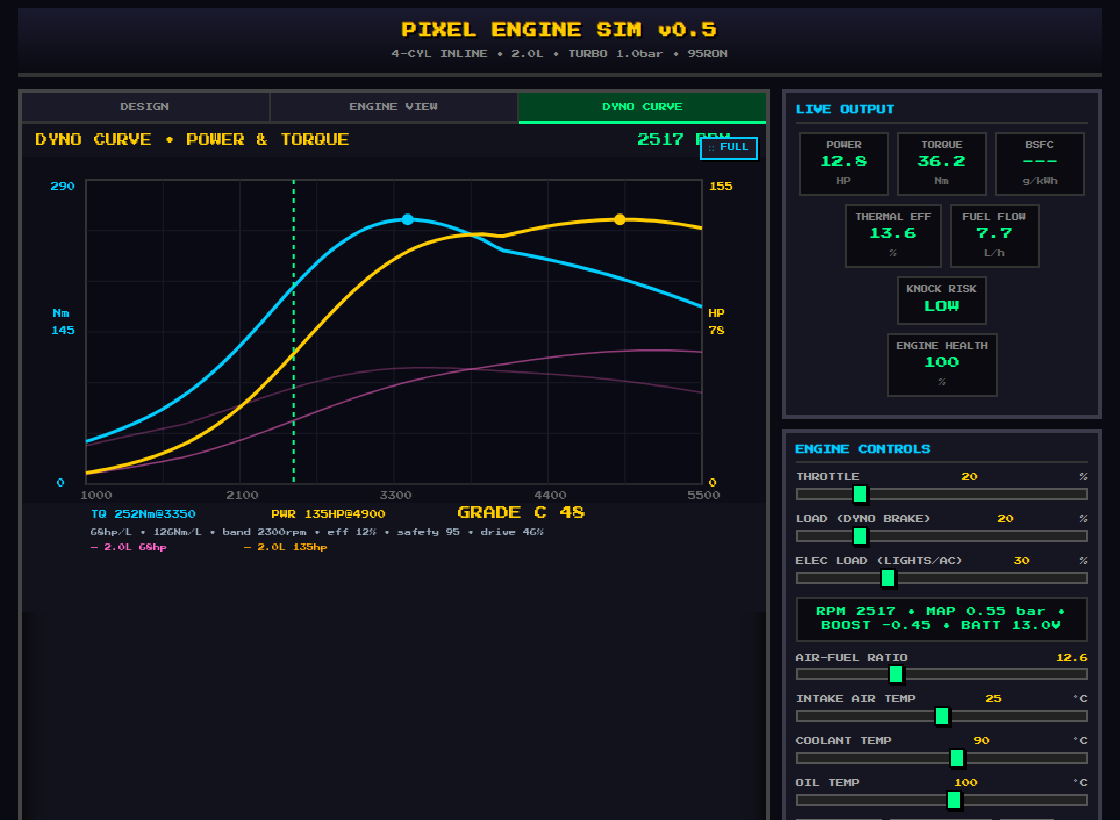
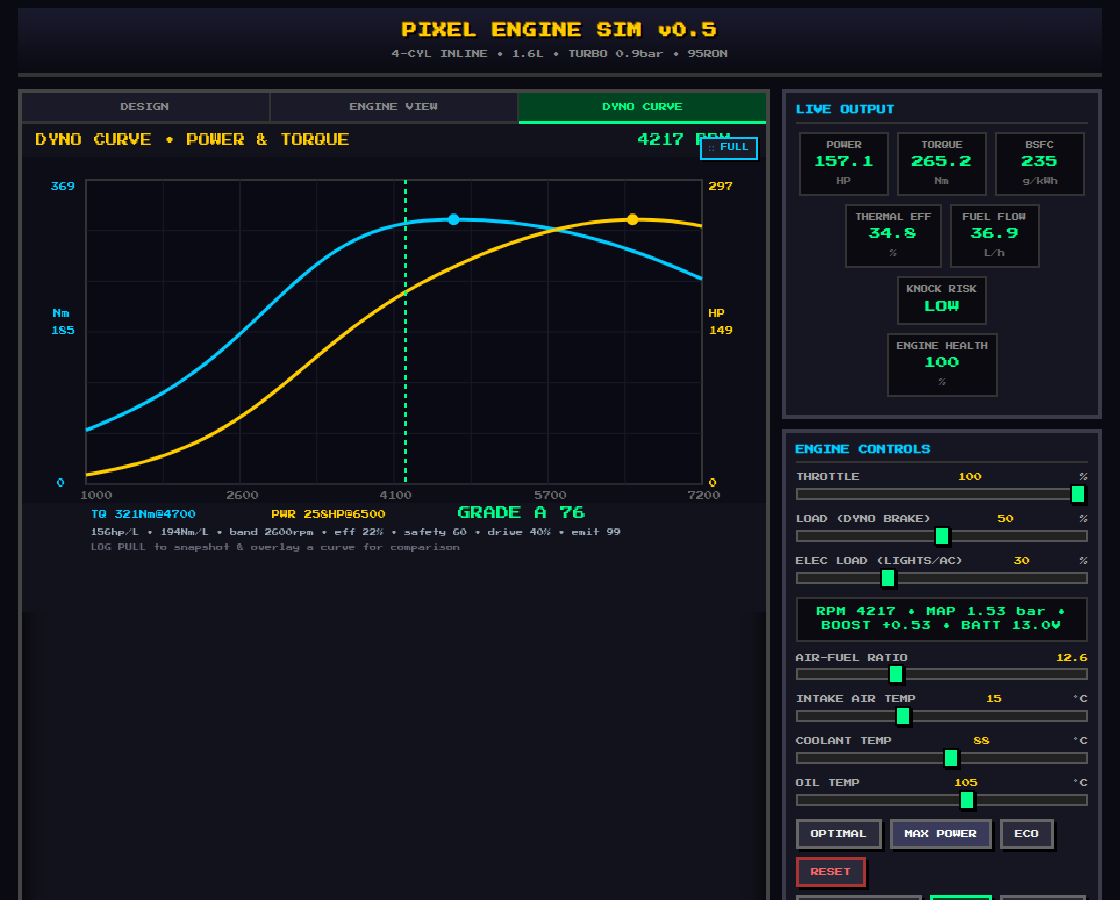
Add emissions & sound (E): CO/HC/NOx, catalytic converter, engine note character (#17)
Emissions subsystem:
- Engine-out CO / HC / NOx modelled vs mixture (lambda) and combustion
  temperature: CO spikes rich, HC is U-shaped (rich + lean misfire + cam
  overlap + imprecise metering + cold), NOx is thermal and peaks slightly
  lean (~lambda 1.08) scaling with load/compression/advance/charge temp.
- New CATALYTIC CONVERTER design field (none-decat / sport / stock). A
  three-way cat only cleans in a narrow stoich window: it needs excess O2
  to oxidise CO/HC (works stoich->lean) but an O2-free exhaust to reduce
  NOx (works stoich->rich), so only stoich cleans all three. Cat adds a
  small exhaust back-pressure (top-end VE loss); deleting it frees a few hp.
- Live analyser readout in the EXHAUST/ANALYSER schematic box: a
  CLEAN/OK/DIRTY rating plus CO/HC/NOx in the detailed full-screen view.
- Emissions folded into the scorecard (design potential at stoich cruise)
  and shown on the design summary and dyno; overall score reweighted.

Sound:
- Firing-order/character-driven lope: an amplitude LFO whose depth tracks
  engine.lumpiness (cam overlap, cross-plane V8, few cylinders, anti-lag;
  smoothed by VVT), deepest at idle and fading with rpm. Note also opens up
  brighter with cylinder count.

Presets tagged with realistic cat choices (decat screamer, sport-cat V12).
README, roadmap and screenshots updated.

Claude-Session: https://claude.ai/code/session_01AEJgmuJne9ALT6jCcxozCn

diff --git a/index.html b/index.html
@@ -122,6 +122,7 @@ footer{text-align:center;margin-top:16px;padding:8px;font-size:7px;color:#555;bo
 <div class="field"><label for="edAntilag">ANTI-LAG (ALS)</label><select id="edAntilag"><option value="no">NO</option><option value="yes">YES</option></select></div>
 <div class="field"><label for="edScType">SUPERCHARGER</label><select id="edScType"><option value="roots">ROOTS</option><option value="screw">TWIN-SCREW</option><option value="centrifugal">CENTRIFUGAL</option></select></div>
 <div class="field"><label for="edExhaust">EXHAUST</label><select id="edExhaust"><option value="stock">STOCK</option><option value="sport">SPORT</option><option value="race">RACE</option></select></div>
+<div class="field"><label for="edCat">CATALYTIC CONV.</label><select id="edCat"><option value="none">NONE (DECAT)</option><option value="sport">SPORT CAT</option><option value="stock">STOCK CAT</option></select></div>
 <div class="field"><label for="edNitrous">NITROUS (N2O)</label><select id="edNitrous"><option value="none">NONE</option><option value="small">SMALL SHOT</option><option value="large">BIG SHOT</option></select></div>
 </div>
 
@@ -284,7 +285,7 @@ const AIR_FILTER={
 // coil-on-plug with ECU knock-limited timing).
 const DEFAULT_ENGINE={
   cylinders:4,bore_mm:81,stroke_mm:78,compression:12.5,layout:'inline',redline:7200,
-  intake:'na',boost_bar:0,intercooler:true,turboSize:'medium',turboConfig:'single',scType:'roots',antilag:false,nitrous:'none',exhaust:'sport',
+  intake:'na',boost_bar:0,intercooler:true,turboSize:'medium',turboConfig:'single',scType:'roots',antilag:false,nitrous:'none',exhaust:'sport',cat:'stock',
   intakeSys:'efi',airFilter:'perf',
   cam:'stock',vvt:true,
   fuel:'gasoline',octane:95,injector:'direct',ignitionAdv:22,ignitionType:'coil',timingMode:'auto',
@@ -297,12 +298,12 @@ const PRESETS=[
   {name:'1.0 Kei Turbo I3',       engine:{cylinders:3,bore_mm:73,stroke_mm:79.6,compression:9.5,redline:7000,intake:'turbo',boost_bar:0.7,turboSize:'small',injector:'port'}},
   {name:'1.5 Turbo Eco I4',       engine:{cylinders:4,bore_mm:73,stroke_mm:89.5,compression:10.5,redline:6500,intake:'turbo',boost_bar:0.8,turboSize:'small',airFilter:'stock',exhaust:'stock'}},
   {name:'2.0 Turbo Hot-Hatch I4', engine:{cylinders:4,bore_mm:86,stroke_mm:86,compression:9.8,redline:7000,intake:'turbo',boost_bar:1.0,turboSize:'medium',octane:98,cam:'sport',exhaust:'sport',radiator:'large',oilCooler:true}},
-  {name:'2.0 ITB NA Screamer I4', engine:{cylinders:4,bore_mm:87,stroke_mm:84,compression:11.7,redline:8800,intakeSys:'itb',airFilter:'none',cam:'race',exhaust:'race',octane:98,injector:'port',radiator:'large',oilCooler:true}},
+  {name:'2.0 ITB NA Screamer I4', engine:{cylinders:4,bore_mm:87,stroke_mm:84,compression:11.7,redline:8800,intakeSys:'itb',airFilter:'none',cam:'race',exhaust:'race',cat:'none',octane:98,injector:'port',radiator:'large',oilCooler:true}},
   {name:'2.5 Turbo I5 (RS)',      engine:{cylinders:5,bore_mm:82.5,stroke_mm:92.8,compression:10,redline:7000,intake:'turbo',boost_bar:1.1,turboSize:'medium',octane:98,cam:'sport',exhaust:'sport',radiator:'large',oilCooler:true}},
   {name:'3.0 Turbo I6 (2JZ)',     engine:{cylinders:6,bore_mm:84,stroke_mm:90,compression:10.2,redline:7000,intake:'turbo',boost_bar:0.9,turboSize:'medium',octane:98,cam:'sport',exhaust:'sport',radiator:'large',oilCooler:true}},
   {name:'5.0 V8 NA Muscle',       engine:{cylinders:8,bore_mm:93,stroke_mm:92.7,compression:12,layout:'v',redline:7500,cam:'sport',exhaust:'sport',radiator:'large',oilCooler:true}},
   {name:'6.2 Supercharged V8',    engine:{cylinders:8,bore_mm:103.9,stroke_mm:90.9,compression:9.5,layout:'v',redline:6400,intake:'supercharger',boost_bar:0.65,octane:98,injector:'port',vvt:false,cam:'sport',exhaust:'sport',radiator:'large',oilCooler:true}},
-  {name:'6.5 V12 NA Supercar',    engine:{cylinders:12,bore_mm:95,stroke_mm:76.4,compression:11.8,layout:'v',redline:8500,intakeSys:'itb',cam:'race',exhaust:'race',octane:98,injector:'port',radiator:'large',oilCooler:true}}
+  {name:'6.5 V12 NA Supercar',    engine:{cylinders:12,bore_mm:95,stroke_mm:76.4,compression:11.8,layout:'v',redline:8500,intakeSys:'itb',cam:'race',exhaust:'race',cat:'sport',octane:98,injector:'port',radiator:'large',oilCooler:true}}
 ];
 const STD_TUNE={throttle:0.85,load:0.40,elecLoad:0.30,afr:13.2,iat:25,coolant:90,oil:100,autoThermal:false};
 
@@ -346,11 +347,20 @@ const SC_TYPE={
   centrifugal:{label:'CENTRIFUGAL',lo:0.04,hi:1.00,exp:2,drag:0.80}
 };
 const NITROUS_BAR={none:0,small:2.2,large:4.2};   // extra IMEP (bar) from a nitrous shot
+// Catalytic converter: a three-way cat only cleans efficiently in a narrow window around
+// stoich. conv = peak conversion efficiency; restrict = exhaust back-pressure (a small
+// top-end VE loss, like an extra air filter). A modern engine uses a stock (high-flow-
+// enough, high-conversion) cat; race builds delete it for flow at the cost of emissions.
+const CAT={
+  none: {label:'NONE (DECAT)',conv:0.00,restrict:0.00},
+  sport:{label:'SPORT CAT',   conv:0.85,restrict:0.02},
+  stock:{label:'STOCK CAT',   conv:0.97,restrict:0.05}
+};
 let engine=Object.assign({},DEFAULT_ENGINE);
 let buildRev=0;   // bumped each build so the dyno cache invalidates
 
 // throttle & load are the driver inputs; rpm & map are now integrated by the sim.
-let state={throttle:0.20,load:0.20,elecLoad:0.30,rpm:1000,map:0.45,afr:14.7,iat:25,coolant:90,oil:100,torque:0,powerHP:0,powerKW:0,bsfc:0,thermalEff:0,fuelFlowLph:0,knockRisk:0,ve:0.85,bmep:0,boostActual:0,batterySOC:1.0,systemVoltage:14.0,engineHealth:1.0,blown:false,wearCause:'',fuelCut:false,nitrousActive:false,nitrousCharge:1.0};
+let state={throttle:0.20,load:0.20,elecLoad:0.30,rpm:1000,map:0.45,afr:14.7,iat:25,coolant:90,oil:100,torque:0,powerHP:0,powerKW:0,bsfc:0,thermalEff:0,fuelFlowLph:0,knockRisk:0,ve:0.85,bmep:0,boostActual:0,batterySOC:1.0,systemVoltage:14.0,engineHealth:1.0,blown:false,wearCause:'',fuelCut:false,nitrousActive:false,nitrousCharge:1.0,emCO:0,emHC:0,emNOx:0,emRating:100};
 let crankAngle=0,lastTime=performance.now();
 let vizMode='engine';
 let autoThermal=false;
@@ -388,6 +398,7 @@ function readEngineFromForm(){
     scType:g('edScType').value,
     nitrous:g('edNitrous').value,
     exhaust:g('edExhaust').value,
+    cat:g('edCat').value,
     intakeSys:g('edIntakeSys').value,
     airFilter:g('edAirFilter').value,
     cam:g('edCam').value,
@@ -416,7 +427,7 @@ function applyEngineToForm(e){
   g('edIntakeSys').value=e.intakeSys||'efi';g('edAirFilter').value=e.airFilter||'stock';
   g('edCam').value=e.cam||'stock';g('edVVT').value=e.vvt?'yes':'no';
   g('edFuel').value=e.fuel||'gasoline';
-  g('edExhaust').value=e.exhaust;g('edOctane').value=e.octane;g('edInjector').value=e.injector;
+  g('edExhaust').value=e.exhaust;g('edCat').value=e.cat||'stock';g('edOctane').value=e.octane;g('edInjector').value=e.injector;
   g('edIgnAdv').value=e.ignitionAdv;g('edIgnType').value=e.ignitionType;g('edTiming').value=e.timingMode||'fixed';
   g('edRadiator').value=e.radiator||'stock';g('edFan').value=e.fan||'electric';
   g('edOilCooler').value=e.oilCooler?'yes':'no';g('edThermostat').value=e.thermostat||88;
@@ -477,7 +488,11 @@ function buildEngine(){
   // manifold response, idle quality. Direct injection is only possible on EFI systems.
   const sys=INTAKE_SYS[engine.intakeSys]||INTAKE_SYS.efi,filt=AIR_FILTER[engine.airFilter]||AIR_FILTER.stock;
   if(!sys.di)engine.injector='port';          // carbs / mechanical injection: no DI
-  engine.inductionFlowTop=sys.flowTop+filt.flowTop;
+  // Catalytic converter: conversion efficiency + a small exhaust back-pressure that costs
+  // top-end breathing (folded into the top-end flow term, like an extra restrictive filter).
+  const catp=CAT[engine.cat]||CAT.stock;
+  engine.catConv=catp.conv;engine.catRestrict=catp.restrict;
+  engine.inductionFlowTop=sys.flowTop+filt.flowTop-catp.restrict;
   engine.inductionFlowLow=sys.flowLow;
   engine.meteringEff=sys.metering;            // AFR precision → thermal efficiency
   engine.intakeRespK=sys.resp;                // manifold fill speed (dynamic model)
@@ -513,6 +528,12 @@ function buildEngine(){
   const alt=ALT[engine.alternator]||ALT['120'];
   engine.altMaxA=alt.maxA;engine.altDragMEP=alt.drag;
   engine.dwellLimit=DWELL_RPM[engine.ignitionType]||6800;
+  // Engine "note" character: how lumpy/lopey the idle & low end sound. Big cams (overlap),
+  // few cylinders, cross-plane V8s and anti-lag all add burble; VVT smooths it back out.
+  engine.lumpiness=clamp((CAM[engine.cam]||CAM.stock).scav*4.5
+    +(engine.layout==='v'&&engine.cylinders===8?0.25:0)
+    +(engine.cylinders<=4?0.15:0)
+    +(engine.antilag?0.20:0),0,1)*(engine.vvt?0.7:1);
 
   // Keep the live operating point valid for the new engine.
   state.rpm=clamp(state.rpm,engine.idleRpmEff,engine.redline);
@@ -555,7 +576,7 @@ function updateDesignSummary(){
     '<br>Compression <b>'+engine.compression.toFixed(1)+':1</b> • Redline <b>'+engine.redline+'</b> rpm'+
     '<br>Induction <b>'+induction+'</b>'+
     '<br>Intake <b>'+INTAKE_SYS[engine.intakeSys].label+'</b> • Filter <b>'+AIR_FILTER[engine.airFilter].label+'</b>'+
-    '<br>Exhaust <b>'+engine.exhaust.toUpperCase()+'</b> • Cam <b>'+engine.cam.toUpperCase()+(engine.vvt?' + VVT':'')+'</b>'+
+    '<br>Exhaust <b>'+engine.exhaust.toUpperCase()+'</b> • Cat <b>'+CAT[engine.cat].label.split(' ')[0]+'</b> • Cam <b>'+engine.cam.toUpperCase()+(engine.vvt?' + VVT':'')+'</b>'+
     '<br>Fuel <b>'+FUELS[engine.fuel].label+'</b> ('+engine.effOctane+' oct, '+engine.stoichAFR.toFixed(1)+':1 stoich'+(engine.chargeCool?', −'+engine.chargeCool+'°C charge':'')+')'+
     '<br>'+(engine.injector==='direct'?'<b>Direct inj</b> • ':'')+'Ignition <b>'+(engine.timingMode==='auto'?'AUTO (ECU)':engine.ignitionAdv+'° fixed')+' '+engine.ignitionType.toUpperCase()+'</b>'+
     '<br>Cooling <b>'+engine.radiator.toUpperCase()+' RAD</b> • <b>'+engine.fan.toUpperCase()+' FAN</b>'+(engine.oilCooler?' • <b>OIL COOLER</b>':'')+' • Thermostat <b>'+engine.thermostat+'°C</b>'+
@@ -566,7 +587,7 @@ function scoreLine(s){
   if(!s)return'';
   const gc=s.overall>=76?'#00ff88':s.overall>=46?'#ffcc00':'#ff6666';
   return '<br><span style="color:'+gc+'">SCORE <b>'+s.grade+' ('+s.overall+')</b></span> • '+s.peakHP+'hp @'+s.peakHPrpm+' • '+s.peakTQ+'Nm @'+s.peakTQrpm+
-    '<br><span style="color:#889">'+s.hpPerL+'hp/L • band '+s.band+'rpm • eff '+s.thEff+'% • safety '+s.safety+' • drive '+s.drive+'%</span>';
+    '<br><span style="color:#889">'+s.hpPerL+'hp/L • band '+s.band+'rpm • eff '+s.thEff+'% • safety '+s.safety+' • drive '+s.drive+'% • emit '+s.emissions+'</span>';
 }
 
 // ---- Turbo spool: how much of the target boost is available at a given RPM ----
@@ -828,8 +849,45 @@ function stepWear(dt){
   state.wearCause=worst>0.001?cause:'';
   if(state.engineHealth<=0){state.blown=true;state.engineHealth=0;state.wearCause=cause||'FAILURE';}
 }
+// ---- Emissions: engine-out CO / HC / NOx vs mixture & combustion temperature, then a
+// three-way catalytic converter that only cleans efficiently in a narrow window around
+// stoich. Stored on state for the analyser display; also fed a 0-100 cleanliness rating.
+//   CO  — incomplete combustion: high when RICH (no O2), near-zero at/above stoich.
+//   HC  — unburned fuel: U-shaped — high rich (excess fuel) AND very lean (misfire), plus
+//         cam-overlap scavenging, imprecise metering (carbs) and a cold engine.
+//   NOx — thermal: peaks slightly LEAN (~λ1.08, hot + excess O2), scaling with combustion
+//         temperature (load, compression, spark advance, hot charge/chamber).
+// The cat needs excess O2 to oxidise CO/HC (works stoich→lean) but a reducing, O2-free
+// exhaust to reduce NOx (works stoich→rich) — so only stoich cleans all three at once.
+function computeEmissions(){
+  const map=liveMap(),lam=state.afr/engine.stoichAFR;
+  const load=clamp((state.rpm-800)/(engine.redline-800),0,1)*0.5+clamp((map-0.3)/(engine.mapMax-0.3),0,1)*0.5;
+  const adv=activeAdvance(state.rpm,map),mbt=mbtAdvance(state.rpm,map);
+  const tempF=clamp(0.4+load*0.9+Math.max(0,engine.compression-9)*0.05
+    +Math.max(0,effIAT(map)-30)*0.006+Math.max(0,adv-mbt+8)*0.010
+    +Math.max(0,state.coolant-90)*0.004,0.2,2.4);
+  const cold=state.coolant<60?(60-state.coolant)/60:0;
+  const meterSlop=1-engine.meteringEff;   // carbs/mech injection run imprecise & rich
+  let coEO =4+Math.max(0,1.0-lam)*300+meterSlop*140;
+  let hcEO =3+Math.max(0,1.0-lam)*95+Math.max(0,lam-1.06)*280+engine.camScav*130+meterSlop*70+cold*45;
+  let noxEO=2+100*Math.exp(-Math.pow((lam-1.08)/0.11,2))*tempF;
+  if(state.fuelCut){coEO=1;hcEO=2;noxEO=1;}   // no combustion on overrun/limiter cut
+  // Three-way conversion: window round stoich, plus O2 availability (lean) for oxidation
+  // and O2 absence (rich) for NOx reduction. A stone-cold cat hasn't lit off yet.
+  const w=Math.exp(-Math.pow((lam-1.0)/0.02,2));
+  const leanO2=clamp((lam-1.0)/0.05,0,1),richRed=clamp((1.0-lam)/0.05,0,1);
+  const litoff=state.coolant<50?0.25:1;
+  const oxEff =engine.catConv*litoff*Math.max(w,leanO2*0.85);
+  const redEff=engine.catConv*litoff*Math.max(w,richRed*0.85);
+  state.emCO=coEO*(1-oxEff);state.emHC=hcEO*(1-oxEff);state.emNOx=noxEO*(1-redEff);
+  // Cleanliness rating 0-100 (higher = cleaner): saturating penalties per pollutant.
+  const coBad=clamp(state.emCO/40,0,1),hcBad=clamp(state.emHC/25,0,1),noxBad=clamp(state.emNOx/70,0,1);
+  state.emRating=Math.round(clamp(100-(coBad*38+hcBad*30+noxBad*32),0,100));
+  return state.emRating;
+}
 function updatePhysics(){
   const map=liveMap();
+  computeEmissions();
   state.fuelCut=overrunFuelCut()||state.rpm>=engine.redline;
   const r=calcAtRpm(state.rpm,map);
   state.torque=r.torque;state.powerKW=r.powerKW;state.powerHP=r.powerHP;
@@ -885,7 +943,7 @@ function stepThermal(dt){
 }
 
 // ---- Engine sound (Web Audio, created lazily on first user gesture) ----
-const Sound={ctx:null,osc:null,sub:null,filter:null,gain:null,on:false};
+const Sound={ctx:null,osc:null,sub:null,filter:null,gain:null,lfo:null,lfoGain:null,on:false};
 function initSound(){
   if(Sound.ctx)return;
   const AC=window.AudioContext||window.webkitAudioContext;if(!AC)return;
@@ -896,7 +954,12 @@ function initSound(){
   Sound.sub=Sound.ctx.createOscillator();Sound.sub.type='square';
   Sound.osc.connect(Sound.filter);Sound.sub.connect(Sound.filter);
   Sound.filter.connect(Sound.gain);Sound.gain.connect(Sound.ctx.destination);
-  Sound.osc.start();Sound.sub.start();
+  // Lumpiness LFO: amplitude-modulates the note at the firing/rev rate so a wild cam or a
+  // cross-plane V8 idles with an audible lope/burble; VVT & many cylinders smooth it out.
+  Sound.lfo=Sound.ctx.createOscillator();Sound.lfo.type='sine';
+  Sound.lfoGain=Sound.ctx.createGain();Sound.lfoGain.gain.value=0;
+  Sound.lfo.connect(Sound.lfoGain);Sound.lfoGain.connect(Sound.gain.gain);
+  Sound.osc.start();Sound.sub.start();Sound.lfo.start();
 }
 function updateSound(){
   if(!Sound.on||!Sound.ctx)return;
@@ -905,8 +968,15 @@ function updateSound(){
   const t=Sound.ctx.currentTime;
   Sound.osc.frequency.setTargetAtTime(fire,t,0.05);
   Sound.sub.frequency.setTargetAtTime(fire/2,t,0.05);
-  Sound.filter.frequency.setTargetAtTime(500+state.rpm*0.14,t,0.05);
-  Sound.gain.gain.setTargetAtTime(0.05+clamp(state.powerHP/160,0,1)*0.12,t,0.08);
+  // More cylinders sit brighter/smoother; the note opens up with revs.
+  Sound.filter.frequency.setTargetAtTime(440+state.rpm*0.15+engine.cylinders*8,t,0.05);
+  const loud=state.blown?0:0.05+clamp(state.powerHP/160,0,1)*0.13;
+  Sound.gain.gain.setTargetAtTime(loud,t,0.08);
+  // Lope pulses at the crank-rev rate, deepest at idle and fading with rpm.
+  const lump=engine.lumpiness||0;
+  Sound.lfo.frequency.setTargetAtTime(Math.max(4,state.rpm/60),t,0.05);
+  const depth=lump*loud*clamp(1-(state.rpm-engine.idleRpmEff)/2600,0.12,1);
+  Sound.lfoGain.gain.setTargetAtTime(state.blown?0:depth,t,0.08);
 }
 function setSound(on){
   Sound.on=on;
@@ -1020,16 +1090,26 @@ function scoreEngine(){
       const fuelPower=((airMass/state.afr)/engine.meteringEff)*engine.fuelLHV*1e6/1000;
       if(fuelPower>0.1)thEff=Math.max(thEff,clamp((cr.powerKW/fuelPower)*100,0,45));
     }}
+  // emissions: cleanliness at a representative stoich cruise + part-load (where a modern
+  // engine spends its regulated life). Rewards a cat + precise metering; a decatted, carb'd
+  // or overlap-heavy build rates dirty even run at stoich.
+  state.afr=engine.stoichAFR;let emSum=0,emN=0;
+  for(const [rf,mm] of [[0.45,0.5],[0.7,0.7],[0.9,Math.min(0.95,engine.mapMax)]]){
+    state.rpm=Math.round(clamp(peakTQrpm*rf,1000,rMax));state.map=Math.min(mm,engine.mapMax);
+    emSum+=computeEmissions();emN++;
+  }
+  const emissions=Math.round(emSum/emN);
   Object.assign(state,{afr:sv.afr,iat:sv.iat,coolant:sv.coolant,oil:sv.oil,engineHealth:sv.eh,blown:sv.bl,elecLoad:sv.el,map:sv.map,rpm:sv.rpm});
+  computeEmissions();   // restore live emissions readout at the real operating point
 
   const hpPerL=peakHP/engine.displacement_L,nmPerL=peakTQ/engine.displacement_L;
   const sPower=clamp((hpPerL-30)/120,0,1)*100, sTorque=clamp((nmPerL-60)/100,0,1)*100;
   const sBand=clamp(band/(rMax*0.55),0,1)*100, sEff=clamp((thEff-10)/16,0,1)*100;
-  const sSafe=safety*100, sDrive=clamp((drive-0.4)/0.5,0,1)*100;
-  const overall=Math.round(0.28*sPower+0.14*sTorque+0.16*sBand+0.14*sEff+0.16*sSafe+0.12*sDrive);
+  const sSafe=safety*100, sDrive=clamp((drive-0.4)/0.5,0,1)*100, sEmit=emissions;
+  const overall=Math.round(0.26*sPower+0.12*sTorque+0.15*sBand+0.12*sEff+0.15*sSafe+0.10*sDrive+0.10*sEmit);
   const grade=overall>=88?'S':overall>=76?'A':overall>=62?'B':overall>=46?'C':overall>=30?'D':'F';
   return {peakHP:Math.round(peakHP),peakHPrpm,peakTQ:Math.round(peakTQ),peakTQrpm,hpPerL:Math.round(hpPerL),
-    nmPerL:Math.round(nmPerL),band,thEff:Math.round(thEff),safety:Math.round(sSafe),drive:Math.round(drive*100),overall,grade};
+    nmPerL:Math.round(nmPerL),band,thEff:Math.round(thEff),safety:Math.round(sSafe),drive:Math.round(drive*100),emissions,overall,grade};
 }
 function flash(msg,cls){
   const status=document.getElementById('status');
@@ -1139,10 +1219,14 @@ function drawEngine(dt){
   ],C.yellow);
 
   // Exhaust / analyser (bottom-left)
-  box(20,250,160,100,'EXHAUST • ANALYSER',[
-    ['SYSTEM '+engine.exhaust.toUpperCase()],
-    ['KNOCK  '+knockTxt+' ('+Math.round(state.knockRisk)+')',knockCol],
-    ['DETON  '+(state.knockRisk>60?'RETARD/CUT':'OK'),state.knockRisk>60?C.red:C.green],
+  const emCol=state.emRating>=75?C.green:state.emRating>=45?C.yellow:C.red;
+  const emWord=state.emRating>=75?'CLEAN':state.emRating>=45?'OK':'DIRTY';
+  box(20,244,160,120,'EXHAUST • ANALYSER',[
+    ['SYS '+engine.exhaust.toUpperCase()+' • CAT '+CAT[engine.cat].label.split(' ')[0]],
+    ['KNOCK '+knockTxt+' ('+Math.round(state.knockRisk)+')',knockCol],
+    ['DETON '+(state.knockRisk>60?'RETARD/CUT':'OK'),state.knockRisk>60?C.red:C.green],
+    ['EMISS '+emWord+' '+state.emRating,emCol],
+    detailed?['CO '+state.emCO.toFixed(0)+' HC '+state.emHC.toFixed(0)+' NOx '+state.emNOx.toFixed(0)]:null,
     detailed?['THERM.EFF '+state.thermalEff.toFixed(0)+'%']:null
   ],C.exhaust);
 
@@ -1236,7 +1320,7 @@ function drawDyno(){
     const gc=s.overall>=76?C.green:s.overall>=46?C.yellow:C.red;
     ctx.fillStyle=gc;ctx.font='11px "Press Start 2P"';ctx.fillText('GRADE '+s.grade+' '+s.overall,gX+320,iy+1);
     ctx.font='6px "Press Start 2P"';ctx.fillStyle='#99aabb';
-    ctx.fillText(s.hpPerL+'hp/L • '+s.nmPerL+'Nm/L • band '+s.band+'rpm • eff '+s.thEff+'% • safety '+s.safety+' • drive '+s.drive+'%',gX+4,iy+15);
+    ctx.fillText(s.hpPerL+'hp/L • '+s.nmPerL+'Nm/L • band '+s.band+'rpm • eff '+s.thEff+'% • safety '+s.safety+' • drive '+s.drive+'% • emit '+s.emissions,gX+4,iy+15);
   }
   ctx.font='6px "Press Start 2P"';
   if(dynoPulls.length){

diff --git a/README.md b/README.md
@@ -20,9 +20,11 @@ screamer, 2JZ six, muscle V8, blown V8, V12 supercar…), or configure your own 
 - **Air path** — naturally aspirated / turbo / supercharger, boost target, intercooler,
   turbo size, **turbo configuration** (single / twin / sequential / compound), **anti-lag**,
   **supercharger type** (roots / twin-screw / centrifugal), **nitrous** (small / big shot),
-  and exhaust (stock / sport / race). Twin/sequential/compound turbos spool earlier and
-  flatter; PD superchargers make boost from idle while centrifugals build it with rpm²;
-  anti-lag keeps the turbo lit (at a wear cost); nitrous is a big power adder from a bottle.
+  exhaust (stock / sport / race) and a **catalytic converter** (none/decat / sport / stock).
+  Twin/sequential/compound turbos spool earlier and flatter; PD superchargers make boost from
+  idle while centrifugals build it with rpm²; anti-lag keeps the turbo lit (at a wear cost);
+  nitrous is a big power adder from a bottle. A cat cleans the exhaust but adds a little
+  back-pressure; deleting it frees a few hp at the cost of emissions.
 - **Induction (metering)** — intake system (1/2/4-bbl carburetor, sidedraft carbs,
   mechanical injection, single-throttle EFI, or individual throttle bodies) and air filter
   (open stacks → restrictive). These set top-end breathing, AFR-metering precision (EFI is
@@ -61,8 +63,14 @@ saps power; a large radiator, electric fan and oil cooler keep it cool.
   Efficiency, BSFC, Fuel Flow, Knock Risk, Engine Health.
 - **Engine-view schematic** — a test-bench diagram (air intake, fuel system, engine,
   exhaust/analyser, dynamometer, electrical) with live values on every subsystem, instead of
-  a too-fast animation. A **⛶ FULL** button opens a full-screen detailed view with extra
-  readouts.
+  a too-fast animation. The **exhaust/analyser** box reads live **emissions** (a CLEAN/OK/DIRTY
+  rating, with CO/HC/NOx in the detailed view) like the bench gas analyser it's modelled on. A
+  **⛶ FULL** button opens a full-screen detailed view with extra readouts.
+- **Emissions** — engine-out CO / HC / NOx computed from the mixture (λ) and combustion
+  temperature, then cleaned by the catalytic converter *only* in a narrow window around
+  stoich: run rich and CO/HC spike (no O₂ to burn them); run lean and NOx slips past (a cat
+  can't reduce it with excess O₂). A **DIRTY** analyser is the price of chasing power on a rich
+  or decatted tune.
 - **WEAR toggle** — turn damage/wear off for free experimentation (invincible engine) or on
   for consequences.
 - **Dyno Curve** — full power & torque vs RPM out to your redline, with peak markers and a
@@ -78,10 +86,12 @@ saps power; a large radiator, electric fan and oil cooler keep it cool.
   balanced against the cooling subsystem's capacity (radiator airflow scales with RPM;
   the fan provides idle cooling).
 - **Engine sound** — Web Audio note pitched to firing frequency (scales with cylinder
-  count & RPM) and load.
+  count & RPM) and load, now with a **lope/burble** whose depth tracks the build's character —
+  a wild cam, a cross-plane V8 or anti-lag idles lumpy, while VVT and more cylinders smooth
+  it out.
 - **Scoring** — every build gets a graded scorecard (S–F) rating power, specific output,
-  powerband width, efficiency, knock safety and drivability, shown on the design summary and
-  the dyno.
+  powerband width, efficiency, knock safety, drivability and **emissions**, shown on the
+  design summary and the dyno.
 - **Dyno pull logging** — snapshot the current curve and overlay several pulls on the graph
   to compare builds or tunes.
 - **Save / Load / Share** — quick-save to `localStorage`; **save to a named file** (with a
@@ -158,6 +168,13 @@ Curve** tab remains a wide-open-throttle steady-state sweep for reading the full
   waste fuel (worse BSFC). The air filter adds an airflow-weighted restriction.
 - Knock combines boost, compression, charge/coolant temperature, RPM, timing and mixture,
   offset by fuel octane, charge cooling and direct injection; high knock derates power.
+- Emissions: CO rises sharply when rich (incomplete combustion); HC is U-shaped — high rich
+  (excess fuel) and very lean (misfire), plus cam-overlap scavenging, imprecise metering and
+  a cold engine; NOx is thermal, peaking slightly lean (~λ1.08) and scaling with combustion
+  temperature (load, compression, spark advance, hot charge). A three-way cat needs excess O₂
+  to oxidise CO/HC but an O₂-free exhaust to reduce NOx, so only a stoich mixture cleans all
+  three at once — the rating rewards a cat + precise stoich metering and punishes rich/lean/
+  decatted running. The cat also adds a little exhaust back-pressure (a small top-end VE loss).
 - Fuel type sets energy density, stoichiometric AFR (the mixture control works in lambda,
   so the AFR slider rescales per fuel), knock rating and evaporative charge cooling. E85 and
   methanol resist knock and cool the intake charge (more power) but need much more fuel
@@ -200,15 +217,18 @@ philosophy).
 2. **(D) Forced-induction & tuning depth** — ✅ turbo configs (twin/sequential/compound),
    supercharger types (roots/screw/centrifugal), anti-lag and nitrous are **done**; 2D
    fuel/ignition map editor still to come (Auto timing already covers ignition-map behaviour).
-3. **(E) Emissions & sound** — CO / HC / NOx + catalytic converter + an emissions score
-   (matches the exhaust-analyser bench), and a firing-order-aware engine note.
+3. ~~**(E) Emissions & sound**~~ ✅ **done** — engine-out CO / HC / NOx vs mixture &
+   combustion temperature, a **catalytic converter** design option and a stoich-window
+   three-way conversion model, a live analyser readout + an emissions score, and a
+   character-driven **lope/burble** on the engine note.
 4. **(C) Strategy layer** — per-part costs / budget and objective-based challenges
    (targets for power, economy, reliability, power-per-dollar).
 5. **(B) New engine types** — diesel (compression ignition), rotary/Wankel, 2-stroke.
 6. **(A) Vehicle / drivetrain layer** — gearbox, weight, grip and aero drag → 0–60,
    quarter-mile and top-speed runs off the dynamic model.
 
-Deferred: V/boxer bank visuals (cosmetic); native Android build (parked).
+Deferred: 2D fuel/ignition map editor (parked for later); V/boxer bank visuals (cosmetic);
+native Android build (parked).
 
 ### Completed
 
@@ -231,6 +251,8 @@ Deferred: V/boxer bank visuals (cosmetic); native Android build (parked).
 - [x] Reliability / wear simulation (health falls under detonation/overheat/lean-boost/over-rev)
 - [x] Scoring / rating (graded scorecard) and dyno-pull logging & overlay
 - [x] Save to / open from named files (with notes) and shareable build links
+- [x] Emissions (engine-out CO/HC/NOx + three-way catalytic converter) with a live analyser & score
+- [x] Character-driven engine note (lope/burble from cam, layout & anti-lag)
 - [x] Calibration pass for realistic power figures & curve shape (ongoing refinement)
 - [ ] Native Android build (wrap the PWA with Capacitor or a Trusted Web Activity)
 
